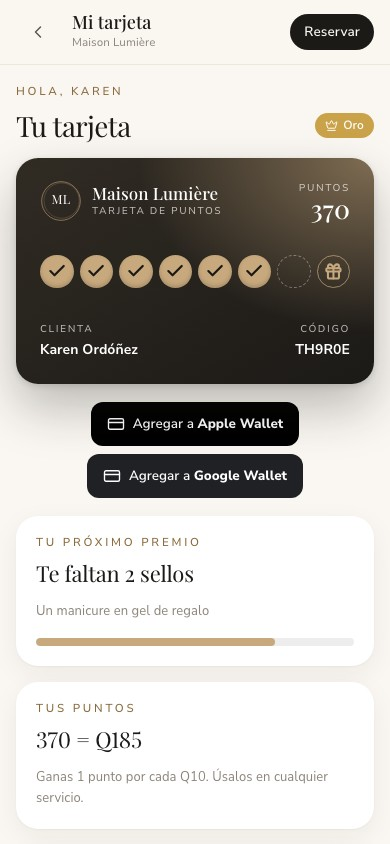
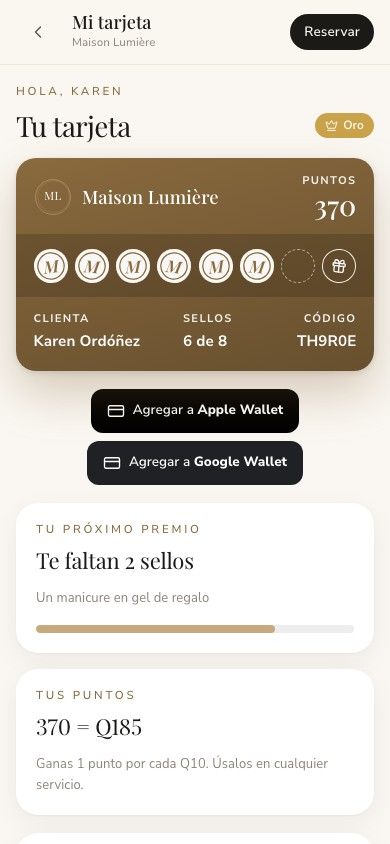
Tarjeta de puntos como pase de Apple Wallet, en el tono de la paleta

diff --git a/css/publico.css b/css/publico.css
@@ -284,24 +284,31 @@ body.estudio-body { background: var(--fondo2); }
   .lienzo-pie { min-height: 34px; }
 }
 
-/* ---------- tarjeta de puntos ---------- */
-.tpuntos { position: relative; overflow: hidden; border-radius: 22px; padding: 18px 20px; color: #fff; display: grid; gap: 16px;
-  background: radial-gradient(120% 140% at 100% 0%, color-mix(in srgb, var(--acento) 55%, transparent), transparent 55%), linear-gradient(150deg, color-mix(in srgb, var(--oscuro) 88%, var(--acento)), var(--oscuro));
-  box-shadow: 0 2px 6px rgba(0,0,0,.12), 0 24px 50px rgba(28,26,23,.28); aspect-ratio: 1.586; align-content: space-between; max-width: 420px; }
-.tpuntos::after { content: ""; position: absolute; inset: 0; background: linear-gradient(105deg, transparent 35%, rgba(255,255,255,.14) 48%, transparent 60%); transform: translateX(-100%); animation: brilloTp 4.5s var(--ease) 1s infinite; pointer-events: none; }
-@keyframes brilloTp { 0%, 60% { transform: translateX(-100%); } 100% { transform: translateX(100%); } }
-.tpuntos.grande { max-width: 460px; margin: 0 auto; padding: 22px 24px; }
-.tp-cab { display: flex; align-items: center; gap: 10px; }
-.tp-cab b { display: block; font: 500 17px/1.15 var(--f-titulo); } .tp-cab small, .tp-pie small, .tp-pts small { display: block; font-size: 10px; letter-spacing: .16em; text-transform: uppercase; opacity: .7; }
-.tp-pts { text-align: right; } .tp-pts b { font: 500 26px/1 var(--f-titulo); }
-.tp-sellos { display: grid; grid-template-columns: repeat(var(--n), 1fr); gap: 6px; }
-.tp-sellos i { aspect-ratio: 1; border-radius: 50%; display: grid; place-items: center; border: 1.5px dashed rgba(255,255,255,.35); color: var(--oscuro); }
-.tp-sellos i .ic { width: 60%; height: 60%; stroke-width: 2.6; }
-.tp-sellos i.on { background: var(--acento); border: 0; box-shadow: inset 0 -2px 4px rgba(0,0,0,.18); }
-.tp-sellos i.premio:not(.on) { color: var(--acento); border-style: solid; border-color: color-mix(in srgb, var(--acento) 70%, transparent); }
+/* ---------- tarjeta de puntos: pase como Apple Wallet, en un solo tono de la paleta ---------- */
+.tpuntos { position: relative; overflow: hidden; border-radius: 1.25em; padding: 1em 1.1em 1.1em; color: #fff; display: grid; gap: .95em; max-width: 380px;
+  background: linear-gradient(165deg, var(--acento-texto), color-mix(in srgb, var(--acento-texto) 75%, #000));
+  box-shadow: 0 2px 6px rgba(0,0,0,.1), 0 22px 48px color-mix(in srgb, var(--acento-texto) 32%, transparent); }
+.tpuntos.grande { max-width: 400px; margin: 0 auto; }
+.tpuntos.con-qr { max-width: 340px; margin: 0 auto; }
+.tpuntos small { display: block; font: 700 .69em/1.2 var(--f-texto); letter-spacing: .12em; text-transform: uppercase; color: rgba(255,255,255,.92); }
+.tp-cab { display: flex; align-items: center; gap: .65em; }
+.tp-cab > b { font: 500 1.15em/1.15 var(--f-titulo); min-width: 0; }
+.tp-pts { text-align: right; } .tp-pts b { display: block; font: 500 1.75em/1 var(--f-titulo); margin-top: .12em; }
+.tp-banda { margin: 0 -1.1em; padding: .9em 1.1em; background: rgba(0,0,0,.16); }
+.tp-sellos { display: grid; grid-template-columns: repeat(var(--n), 1fr); gap: .45em; container-type: inline-size; }
+.tp-sellos i { aspect-ratio: 1; border-radius: 50%; display: grid; place-items: center; border: 1.5px dashed rgba(255,255,255,.55); transform: rotate(var(--r, 0deg)); }
+.tp-sellos i span { font: italic 600 calc(100cqi / var(--n) * .42)/1 var(--f-titulo); }
+.tp-sellos i .ic { width: 50%; height: 50%; stroke-width: 2; }
+.tp-sellos i.premio:not(.on) { border-style: solid; border-color: rgba(255,255,255,.9); color: #fff; }
+.tp-sellos i.on { border: 0; background: rgba(255,255,255,.96); color: var(--acento-texto); box-shadow: inset 0 0 0 .2em rgba(255,255,255,.96), inset 0 0 0 .28em currentColor; }
 .entra .tp-sellos i.on, .visto .tp-sellos i.on { animation: sello .5s var(--ease) both; animation-delay: calc(.35s + var(--i, 0) * 70ms); }
 @keyframes sello { from { transform: scale(1.35) rotate(-12deg); opacity: 0; } }
-.tp-pie { display: flex; justify-content: space-between; gap: 12px; } .tp-pie b { font-weight: 700; font-size: 14px; }
+.tp-campos { display: grid; grid-template-columns: minmax(0, 1.7fr) minmax(0, 1fr) minmax(0, 1fr); gap: .8em; }
+.tp-campos b { display: block; font-weight: 700; font-size: .95em; margin-top: .22em; overflow: hidden; text-overflow: ellipsis; white-space: nowrap; }
+.tp-campos .derecha { text-align: right; }
+.tp-qr-w { display: grid; justify-items: center; gap: .45em; background: #fff; color: #111; border-radius: .8em; padding: .9em; }
+.tp-qr-w .qr { width: 132px; height: 132px; }
+.tp-qr-w small { color: #3a3a3a; letter-spacing: .2em; }
 .tpuntos .logo-tx { fill: #fff; }
 .puntos-banda { display: grid; grid-template-columns: minmax(0, 400px) 1fr; gap: clamp(24px, 4vw, 48px); align-items: center; }
 @media (max-width: 760px) { .puntos-banda { grid-template-columns: 1fr; } }
@@ -321,11 +328,8 @@ body.estudio-body { background: var(--fondo2); }
 .tp-qr { display: flex; align-items: center; gap: 18px; text-align: left; }
 /* pases de Wallet (simulados) */
 .wpass { border-radius: 18px; overflow: hidden; max-width: 340px; margin: 0 auto; box-shadow: 0 20px 50px rgba(0,0,0,.22); }
-.wpass.apple { background: linear-gradient(170deg, color-mix(in srgb, var(--oscuro) 85%, var(--acento)), var(--oscuro)); color: #fff; padding: 16px; display: grid; gap: 14px; }
 .wpass .wp-top { display: flex; align-items: center; gap: 10px; } .wpass .wp-top b { font: 600 15px var(--f-texto); }
 .wpass small { display: block; font-size: 9.5px; letter-spacing: .14em; opacity: .7; } .wpass .derecha b { font-size: 20px; }
-.wpass.apple .logo-tx { fill: #fff; }
-.wp-strip { background: rgba(255,255,255,.07); border-radius: 12px; padding: 14px 10px; }
 .wp-campos { display: grid; grid-template-columns: repeat(auto-fit, minmax(70px, 1fr)); gap: 10px; } .wp-campos b { font-size: 14px; }
 .wp-qr { display: grid; justify-items: center; gap: 6px; background: #fff; color: #111; border-radius: 12px; padding: 12px; }
 .wp-qr .qr { width: 120px; height: 120px; }

diff --git a/js/publico.js b/js/publico.js
@@ -111,7 +111,7 @@ DESPUES[""] = (p, cambio) => {
       const box = $("#heroMano"); if (!box || document.hidden) return;
       k = (k + 1) % LOOKBOOK.length; const l = LOOKBOOK[k];
       box.classList.add("cambia");
-      setTimeout(() => { box.innerHTML = manoSVG({ preset: l.id }, { tam: 300 }); $("#heroNombre").textContent = l.nombre; $("#heroLink").href = "#/disenar/preset/" + l.id; box.classList.remove("cambia"); }, 260);
+      setTimeout(() => { if (!box.isConnected) return; box.innerHTML = manoSVG({ preset: l.id }, { tam: 300 }); $("#heroNombre").textContent = l.nombre; $("#heroLink").href = "#/disenar/preset/" + l.id; box.classList.remove("cambia"); }, 260);
     }, 3400);
   }
 };
@@ -398,11 +398,19 @@ function arrancar() {
    Tarjeta de puntos (portal web + Apple Wallet / Google Wallet simulados)
    ============================================================ */
 function tarjetaPuntosHTML(k, o = {}) {
-  const L = lealtad(), n = Math.min(k.sellos || 0, L.sellos);
-  return `<div class="tpuntos ${o.grande ? "grande" : ""}">
-    <div class="tp-cab">${logo(o.grande ? 42 : 34)}<div class="esp"><b>${esc(MARCA.nombre)}</b><small>Tarjeta de puntos</small></div><div class="tp-pts"><small>Puntos</small><b class="num">${(k.puntos || 0).toLocaleString("en-US")}</b></div></div>
-    <div class="tp-sellos" style="--n:${L.sellos}">${Array.from({ length: L.sellos }, (_, i) => `<i class="${i < n ? "on" : ""} ${i === L.sellos - 1 ? "premio" : ""}" style="--i:${i}">${i < n ? ic("check") : i === L.sellos - 1 ? ic("gift") : ""}</i>`).join("")}</div>
-    <div class="tp-pie"><div><small>Clienta</small><b>${esc(k.nombre)}</b></div><div class="derecha"><small>Código</small><b class="num">${esc(k.tarjeta || "")}</b></div></div>
+  /* como un pase de Apple Wallet: logo y puntos arriba, franja de sellos, datos y (en Wallet) el QR */
+  const L = lealtad(), n = Math.min(k.sellos || 0, L.sellos), ini = esc(MARCA.inicial || (MARCA.corto || MARCA.nombre).charAt(0));
+  const giro = [-8, 5, -3, 7, -6, 4, -2, 6];
+  const sello = i => {
+    const on = i < n, premio = i === L.sellos - 1;
+    return `<i class="${on ? "on" : ""} ${premio ? "premio" : ""}" style="--i:${i};--r:${giro[i % 8]}deg">${premio ? ic("gift") : on ? `<span>${ini}</span>` : ""}</i>`;
+  };
+  const campo = (t, v, cls = "") => `<div class="${cls}"><small>${t}</small><b>${v}</b></div>`;
+  return `<div class="tpuntos ${o.grande ? "grande" : ""} ${o.qr ? "con-qr" : ""}">
+    <div class="tp-cab">${logo(o.grande ? 38 : 34)}<b class="esp">${esc(MARCA.nombre)}</b><div class="tp-pts"><small>Puntos</small><b class="num">${(k.puntos || 0).toLocaleString("en-US")}</b></div></div>
+    <div class="tp-banda"><div class="tp-sellos" style="--n:${L.sellos}">${Array.from({ length: L.sellos }, (_, i) => sello(i)).join("")}</div></div>
+    <div class="tp-campos">${campo("Clienta", esc(k.nombre))}${campo("Sellos", `${n} de ${L.sellos}`)}${o.qr ? campo("Nivel", nivelDe(k).n, "derecha") : campo("Código", esc(k.tarjeta || ""), "derecha num")}</div>
+    ${o.qr ? `<div class="tp-qr-w"><div class="qr" data-qr="${esc(k.tarjeta)}"></div><small>${esc(k.tarjeta)}</small></div>` : ""}
   </div>`;
 }
 function walletBotones(k) {
@@ -455,10 +463,7 @@ MODALES.wallet = m => {
   const k = clientaPorTarjeta(m.cod); if (!k) return cab("Wallet");
   const L = lealtad(), ap = m.w === "apple", faltan = L.sellos - (k.sellos || 0);
   const pase = ap
-    ? `<div class="wpass apple"><div class="wp-top">${logo(30)}<b class="esp">${esc(MARCA.nombre)}</b><div class="derecha"><small>PUNTOS</small><b class="num">${k.puntos || 0}</b></div></div>
-        <div class="wp-strip"><div class="tp-sellos" style="--n:${L.sellos}">${Array.from({ length: L.sellos }, (_, i) => `<i class="${i < (k.sellos || 0) ? "on" : ""}">${i < (k.sellos || 0) ? ic("check") : ""}</i>`).join("")}</div></div>
-        <div class="wp-campos"><div><small>CLIENTA</small><b>${esc(k.nombre)}</b></div><div><small>SELLOS</small><b>${k.sellos || 0} / ${L.sellos}</b></div><div><small>NIVEL</small><b>${nivelDe(k).n}</b></div></div>
-        <div class="wp-qr"><div class="qr" data-qr="${esc(k.tarjeta)}"></div><small>${esc(k.tarjeta)}</small></div></div>`
+    ? tarjetaPuntosHTML(k, { qr: true })
     : `<div class="wpass google"><div class="wp-top">${logo(34)}<b class="esp">${esc(MARCA.nombre)}</b></div>
         <p class="wp-g-n">${esc(k.nombre)}</p><div class="wp-campos"><div><small>Puntos</small><b class="num">${k.puntos || 0}</b></div><div><small>Sellos</small><b>${k.sellos || 0} de ${L.sellos}</b></div></div>
         <div class="wp-qr"><div class="qr" data-qr="${esc(k.tarjeta)}"></div><small>${esc(k.tarjeta)}</small></div></div>`;
